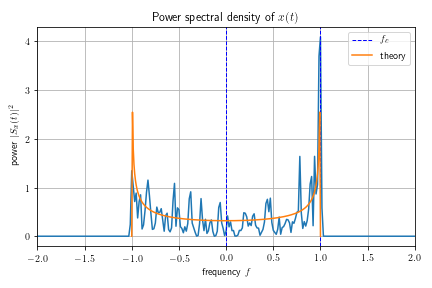
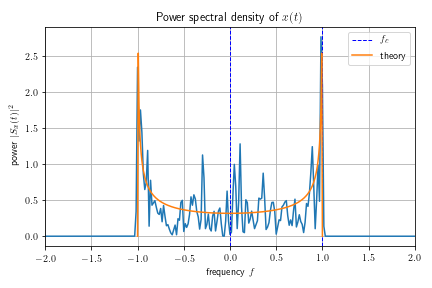
generate README

diff --git a/README.md b/README.md
@@ -1,0 +1,121 @@
+
+# Jakes Fading Simulation
+
+
+```python
+%run -i jakes.py
+```
+
+# Distribution of Doppler shifts
+
+
+```python
+NN_bin = 32
+jakes_fading(
+    NN_sym = 0,
+    NN_pth = NN_bin * 8192,     # Number of doppler shifts
+)
+
+fig, axs = plt.subplots()
+axs.set_title(r"Histogram of path doppler shift $\Xi$")
+axs.set_xlabel(r"$\xi$")
+axs.set_ylabel(r"count")
+axs.hist(xi_l,bins = NN_bin)
+
+fig.tight_layout()
+fig.savefig("./plots/doppler_shifts.png")
+```
+
+
+![png](notebook_files/notebook_3_0.png)
+
+
+# Fading Envelope
+
+
+```python
+jakes_fading(
+    NN_sym =    8, # number of symbols
+    NN_sps =  256, # number of samples per symbol
+    NN_pth =    8, # number of paths
+    FF_dop =    1, # maximum doppler shift (Hz)
+    FF_car =    0, # carrier frequency (Hz)
+    FF_sym =    1, # symbol rate (baud)
+)
+
+fig, axs = plt.subplots()
+axs.set_title(r"Jakes fading envelope")
+axs.set_xlabel(r"normalized time $t/T$")
+axs.set_ylabel(r"magnitude")
+axs.plot(tt_n/TT_sym,np.abs(xx_n))
+fig.savefig("./plots/fading_envelope.png")
+```
+
+
+![png](notebook_files/notebook_5_0.png)
+
+
+# Doppler Power Spectrum
+
+Still working on scaling and centering spectrum properly.
+
+
+```python
+jakes_fading(
+    NN_sym =  512, # number of symbols
+    NN_sps = 1024, # number of samples per symbol
+    NN_pth =  256, # number of paths
+    FF_dop =    1, # maximum doppler shift (Hz)
+    FF_car =    0, # carrier frequency (Hz)
+    FF_sym =    4  # symbol rate (baud)
+)
+
+# Welch Spectrum
+nperseg = NN_sam/2 # frequency range [-NN_sps/2,NN_sps/2]
+ff, Sx = signal.welch(xx_n,
+                      fs = FF_sam,
+                      return_onesided = False,
+                      nperseg = nperseg)
+
+k = np.arange(ff.size) # frequency index
+ff_k = ff[np.argsort(ff)]
+Sx_k = Sx[np.argsort(ff)]
+
+
+fig, axs = plt.subplots()
+axs.set_title(r"Power spectral density of $x(t)$")
+axs.set_xlabel(r"frequency $f$")
+axs.set_ylabel(r"power $|S_x(t)|^2$")
+axs.plot(ff_k,Sx_k)
+axs.axvline(FF_car + FF_dop,linestyle = "--",linewidth=1,color="blue")
+axs.axvline(FF_car,label="$f_{c}$",linestyle = "--",linewidth=1,color="blue")
+
+# Plot theoretical doppler spectrum
+def Sx_theory(f,f_dop = 1):
+    func = lambda x: 1/(np.pi*f_dop*np.sqrt(1-(x/f_dop)**2))
+    return np.piecewise(f,[np.abs(f)<f_dop],[func,0])
+eps = np.finfo(np.float32).eps
+f = np.linspace(-(FF_car+FF_dop)/FF_sym-eps,(FF_car+FF_dop)/FF_sym+eps,256)
+axs.plot(f,FF_sym*Sx_theory((f-FF_car)*FF_sym,f_dop=FF_dop),label="theory")
+
+axs.set_xlim(-2*(FF_car+FF_dop)/FF_sym,2*(FF_car+FF_dop)/FF_sym)
+
+axs.legend()
+fig.tight_layout()
+fig.savefig("./plots/doppler_spectrum.png")
+
+print("Welch periodogram properties:")
+print("frequency spacing:     {} Hz".format(ff_k[1] - ff_k[0]))
+print("Number of frequencies: {}".format(ff_k.size))
+print("nperseg:               {}".format(nperseg))
+```
+
+    Welch periodogram properties:
+    frequency spacing:     0.015625 Hz
+    Number of frequencies: 262144
+    nperseg:               262144.0
+
+
+
+![png](notebook_files/notebook_8_1.png)
+
